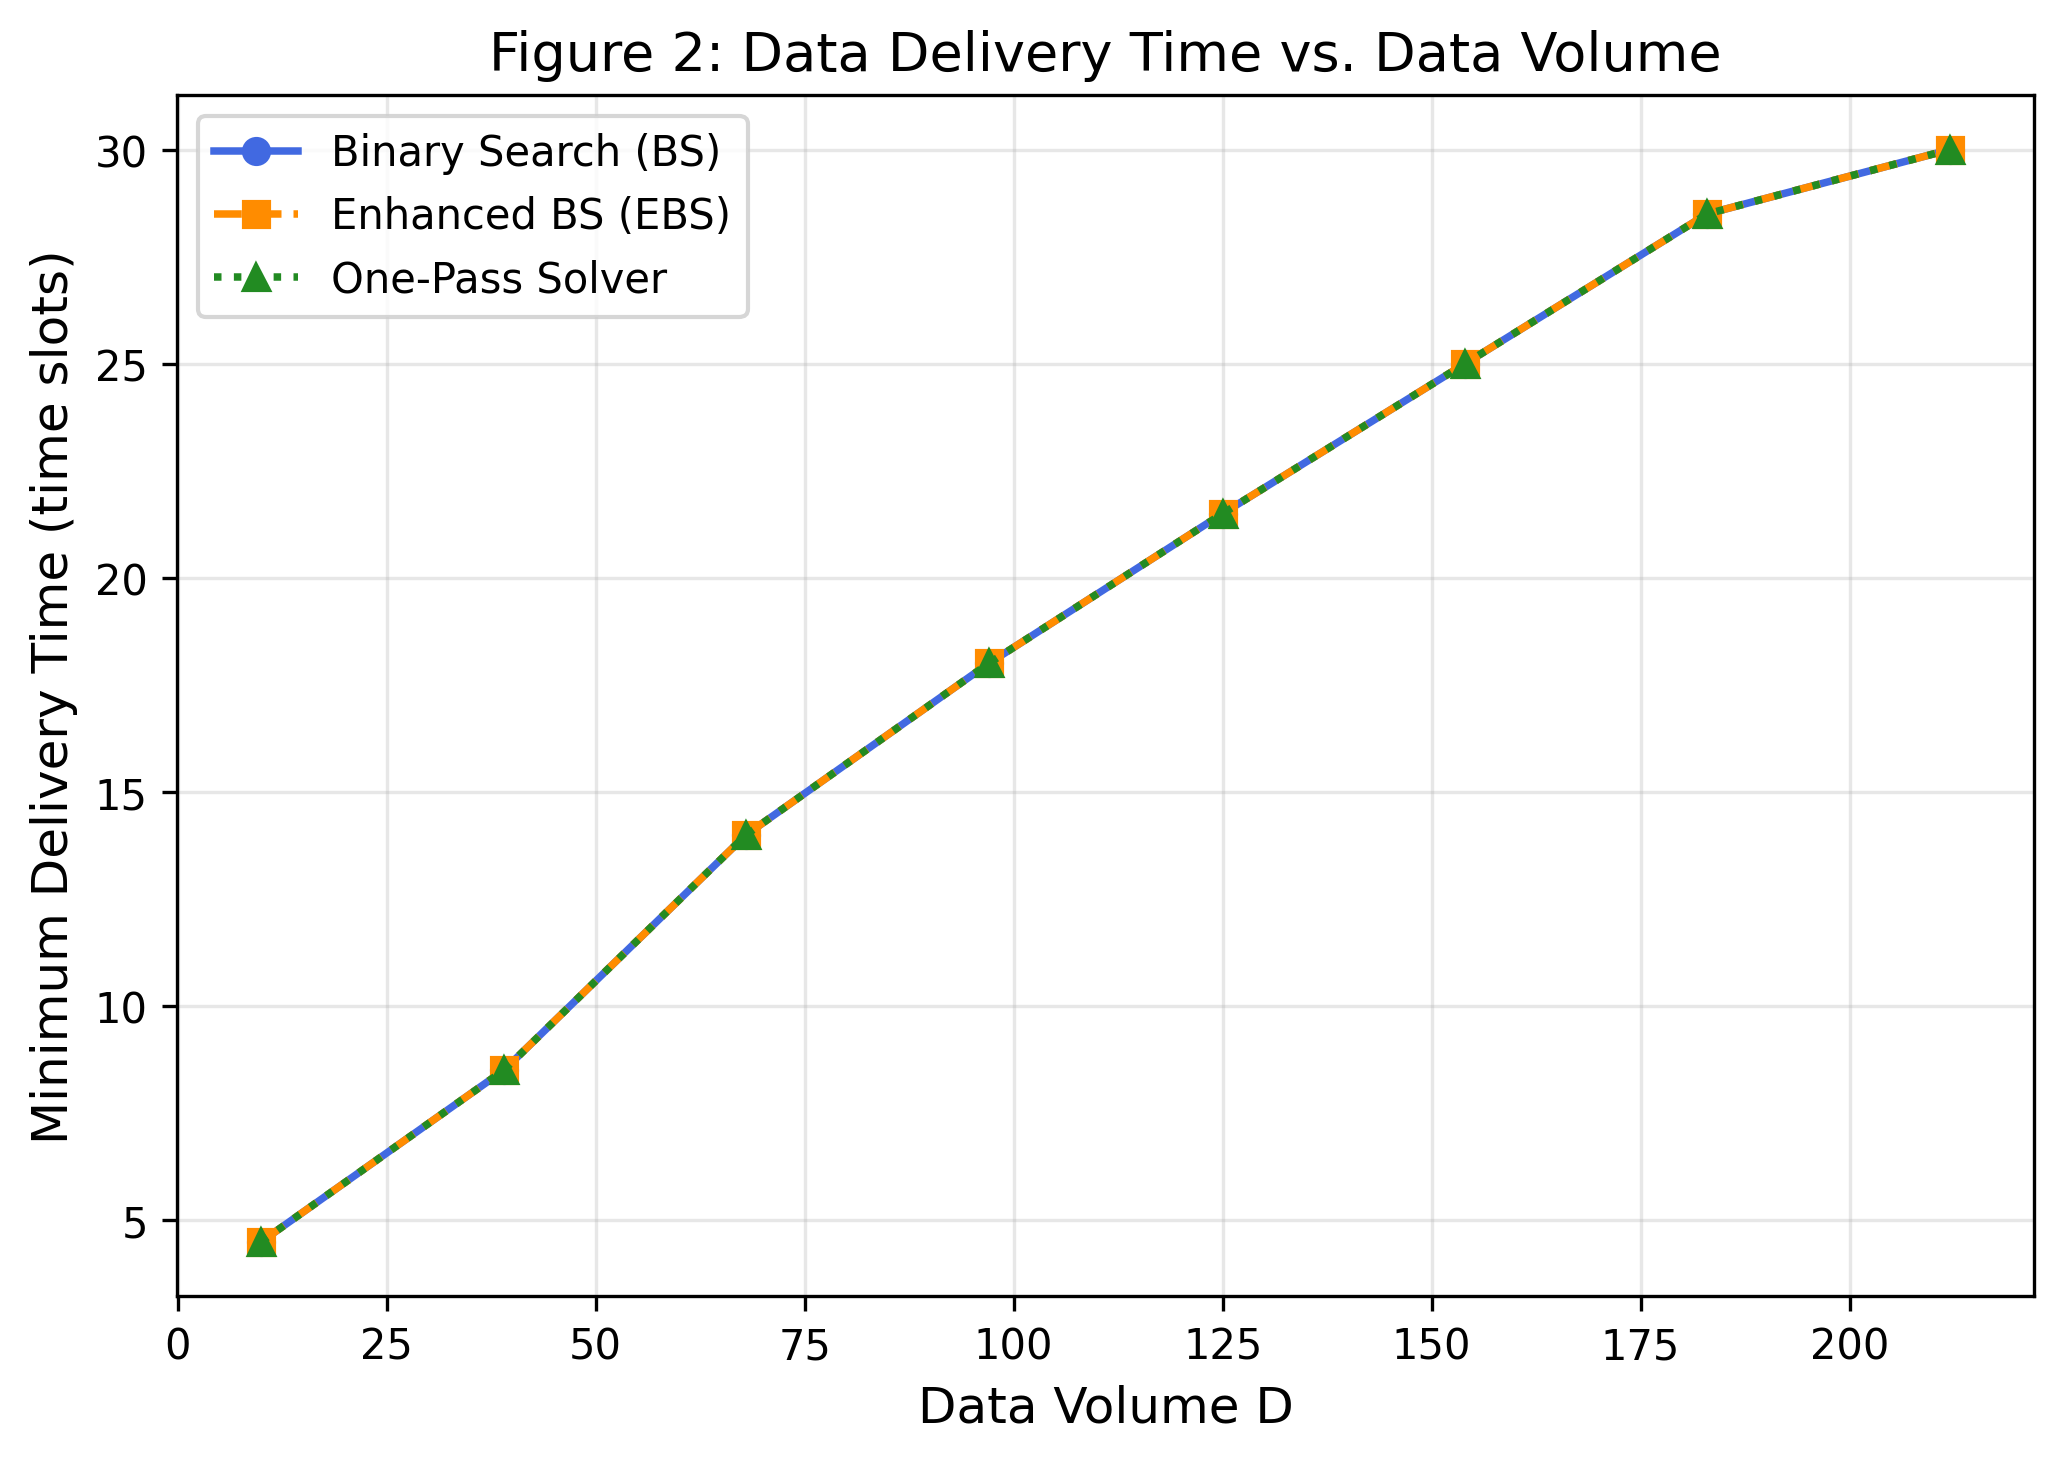
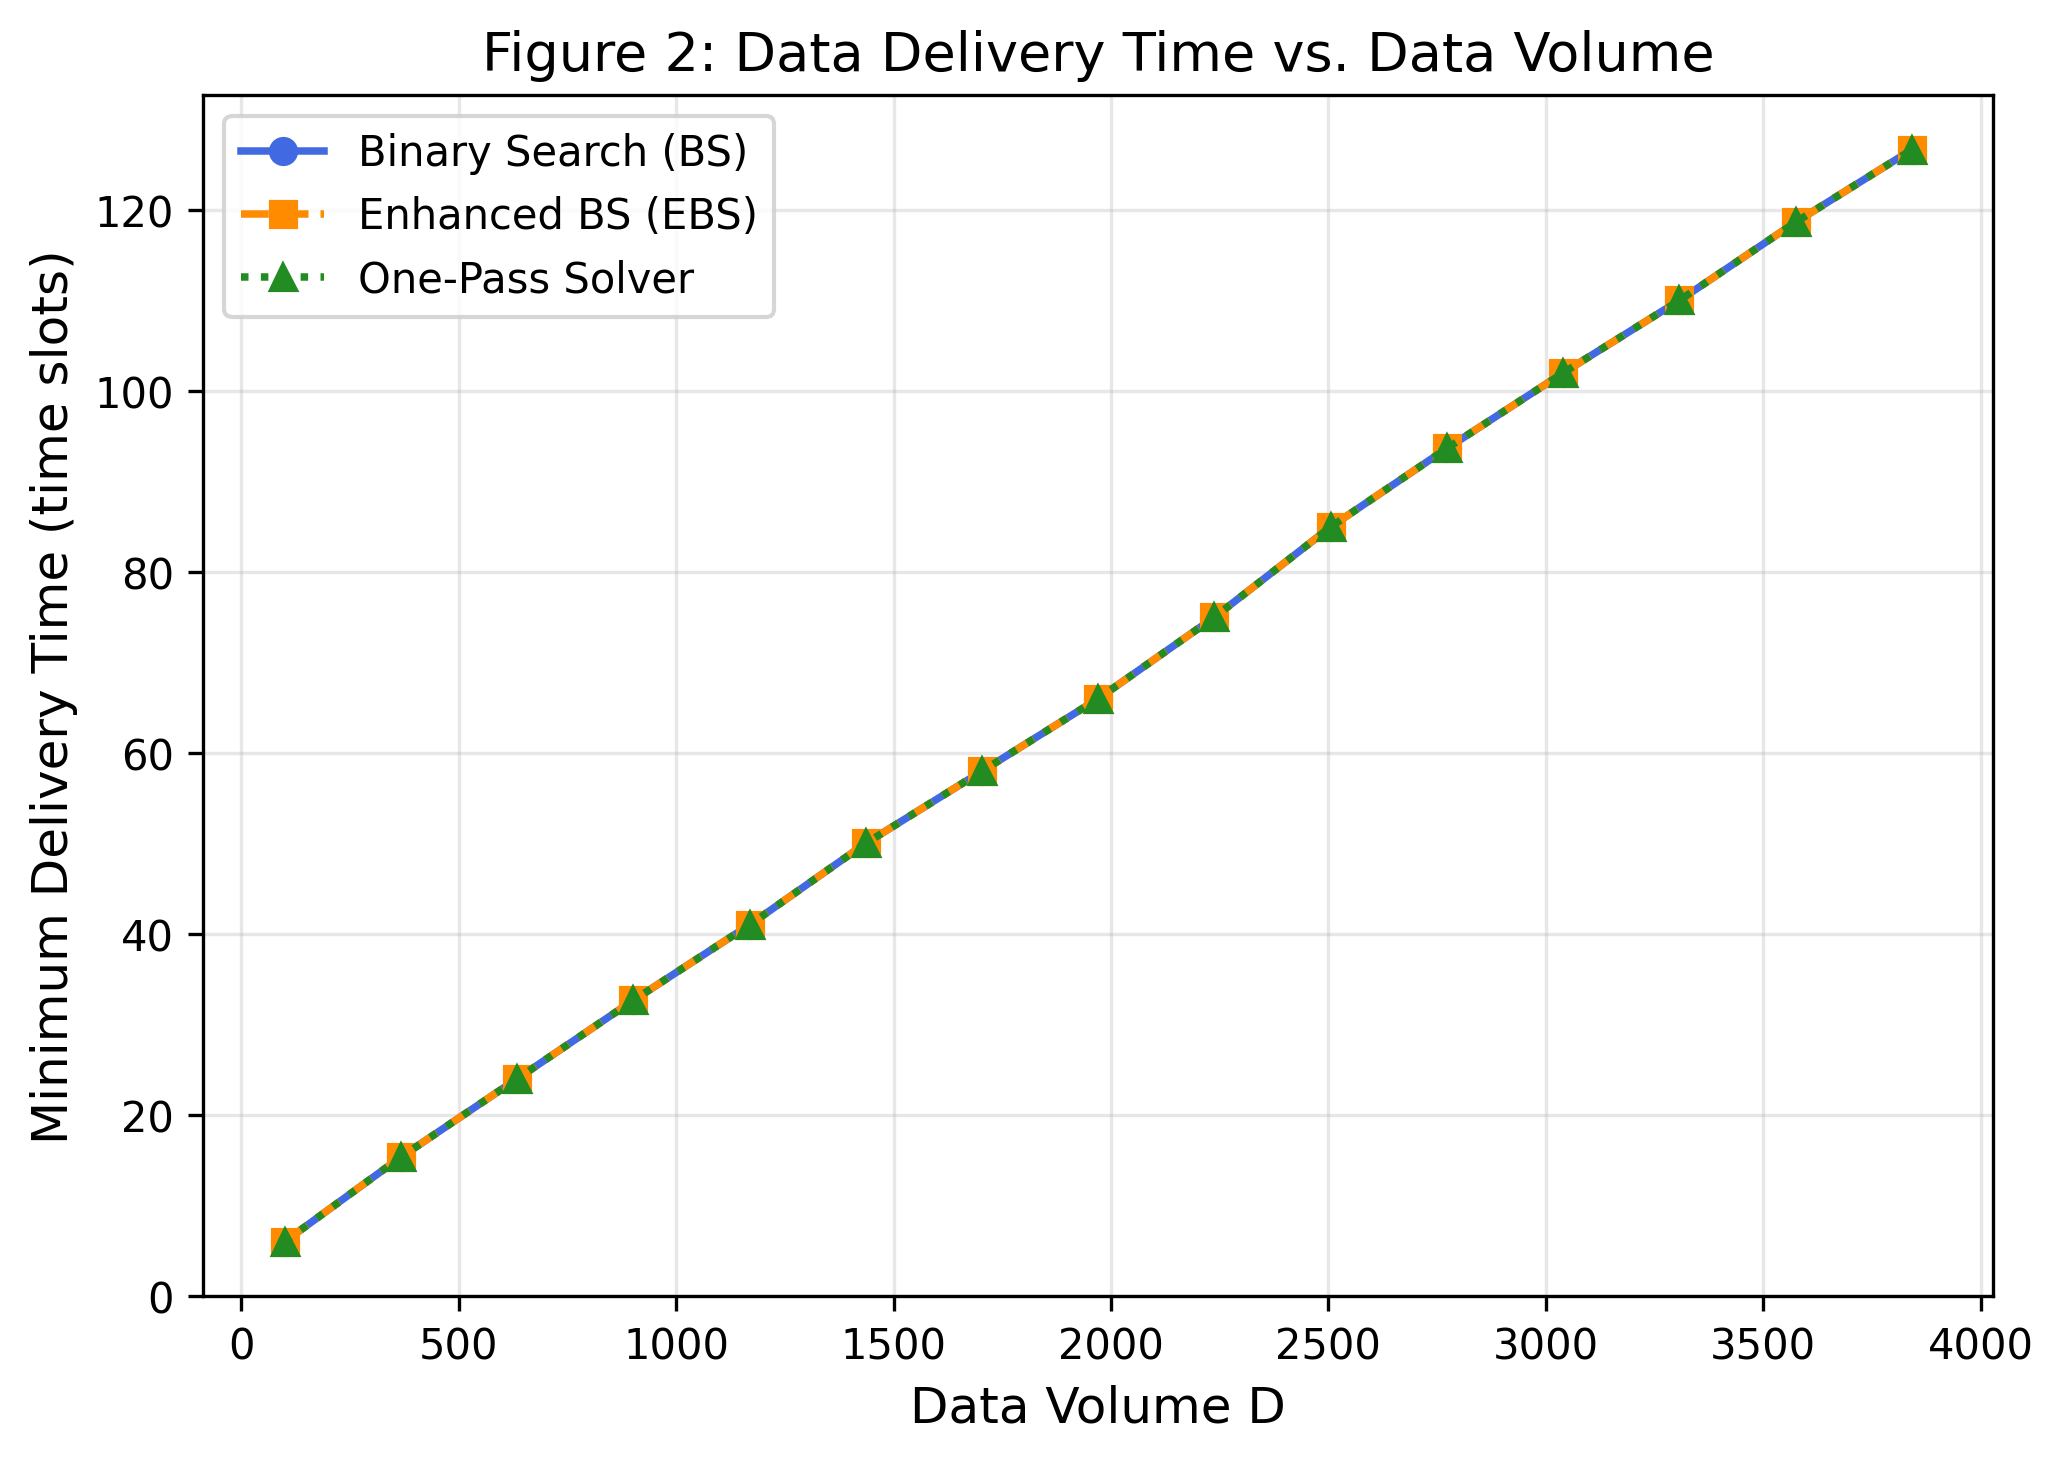
feat: Update README and results files with detailed solver descriptions and new experimental data

diff --git a/README.md b/README.md
@@ -1,2 +1,145 @@
-# one-pass-mddt-reproduction
-Reproduction of the IEEE INFOCOM 2023 paper *“One Pass is Sufficient: A Solver for Minimizing Data Delivery Time over Time-varying Networks.” Implements the one-pass MDDT solver and baselines using a custom Python simulator, with a focus on reproducing qualitative performance trends and documenting implementation assumptions.
+# One-Pass MDDT Reproduction
+
+Reproduction of the IEEE INFOCOM 2023 paper:
+> *"One Pass is Sufficient: A Solver for Minimizing Data Delivery Time over Time-varying Networks"*
+
+Implements three solvers for the MDDT (Minimizing Data Delivery Time) problem over
+time-varying networks and reproduces the qualitative performance trends from Figures 2 and 3
+of the paper.
+
+---
+
+## What This Does
+
+- **Binary Search (BS)**: Baseline solver — binary search over time horizon, rebuilds the
+  full Time-Expanded Graph (TEG) and runs max-flow from scratch at each step.
+- **Enhanced Binary Search (EBS)**: Like BS but reuses the residual graph when the time
+  horizon expands, avoiding some redundant computation.
+- **One-Pass Solver**: The paper's contribution — incrementally expands the TEG one time
+  step at a time, reusing the residual graph throughout. One pass over time.
+
+**Figure 2** (delivery time vs. D): All three solvers find the same optimal answer — their
+lines overlap, confirming correctness.
+
+**Figure 3** (running time vs. D): One-Pass is significantly faster than BS and EBS,
+especially at large data volumes — reproducing the paper's key result.
+
+---
+
+## Requirements
+
+- Python 3.9+
+- numpy, pandas, matplotlib
+
+---
+
+## Setup
+
+```bash
+# 1. Clone the repo
+git clone https://github.com/<your-username>/one-pass-mddt-reproduction.git
+cd one-pass-mddt-reproduction
+
+# 2. (Optional) create a virtual environment
+python -m venv venv
+# Windows:
+venv\Scripts\activate
+# macOS/Linux:
+source venv/bin/activate
+
+# 3. Install dependencies
+pip install -r requirements.txt
+```
+
+---
+
+## How to Run
+
+### Quick correctness check (~1 second)
+Verifies all three solvers agree on a small network:
+```bash
+python experiment.py --smoke
+```
+
+### Small-scale experiment (~5–10 seconds)
+Runs on a small network (8 nodes, 30 time slots), saves CSVs and figures:
+```bash
+python experiment.py --small
+```
+
+### Full experiment (~15–20 minutes)
+Runs the full-scale experiment (15 nodes, 150 time slots, 3 trials, 15 D values).
+Saves `results_raw.csv`, `results_agg.csv`, `figure2.png`, `figure3.png`:
+```bash
+python experiment.py --full
+```
+
+> **Note:** The full experiment is slow at large D values because the DFS-based
+> Ford-Fulkerson pushes flow one augmenting path at a time. This is intentional —
+> the point is to show the *relative* speedup of One-Pass over BS, not absolute speed.
+
+### Generate figures from existing results
+If you already have `results_agg.csv`:
+```bash
+python plot_results.py
+```
+
+---
+
+## File Overview
+
+| File | Purpose |
+|------|---------|
+| `network_generator.py` | Synthetic time-varying network (TVN) generation |
+| `teg_builder.py` | Time-Expanded Graph construction and residual graph management |
+| `solvers.py` | DFS max-flow core + BS, EBS, One-Pass solver implementations |
+| `experiment.py` | Timed experiment loop, CSV output, correctness smoke test |
+| `plot_results.py` | Figure 2 and Figure 3 generation |
+| `requirements.txt` | Python dependencies |
+
+---
+
+## Synthetic Network Model
+
+Since the paper uses proprietary STK-generated Starlink satellite traces (not publicly
+available), we use a synthetic time-varying network:
+
+- **Nodes**: Fixed set of `n` nodes (satellites/ground stations)
+- **Links**: At each time slot `t`, each directed pair `(u, v)` is independently activated
+  with probability `p` (Erdős–Rényi style), with a random integer capacity in `[cap_lo, cap_hi]`
+- **Parameters**: `n_nodes=15`, `T_max=150`, `activation_prob=0.4`, `cap_lo=1`, `cap_hi=10`
+
+This model preserves the key property of real satellite networks: links appear and disappear
+over time, creating intermittent connectivity that the MDDT problem is designed to handle.
+
+---
+
+## Implementation Assumptions
+
+The paper does not specify all implementation details. Our choices:
+
+1. **Time discretization**: Equal-length time slots
+2. **Augmenting path search**: DFS-based Ford-Fulkerson (iterative)
+3. **Node storage**: Infinite buffering capacity between time slots
+4. **TEG edges**: Transmission edge `(u,t) → (v,t+1)` with link capacity; storage edge
+   `(v,t) → (v,t+1)` with infinite capacity
+5. **Data source**: Synthetic random networks (not Starlink traces)
+
+---
+
+## Expected Output
+
+After running the full experiment:
+
+- **`figure2.png`**: All three solver lines overlap — they find the same minimum delivery time
+- **`figure3.png`**: One-Pass line is below BS and EBS lines, gap widening as D increases
+
+This reproduces the qualitative trend from Figure 3 of the original paper.
+
+---
+
+## Group Members
+
+Aidan Campbell · Asael Garcia Cervantes · Yo Han Lee · Jabir Nure · Yaseer Sabir
+
+CSCI 4800 — Reproduction of IEEE INFOCOM 2023
